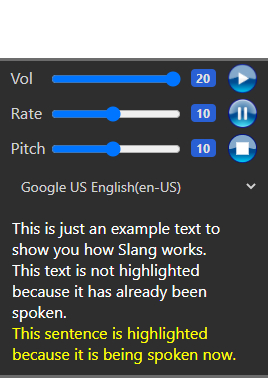
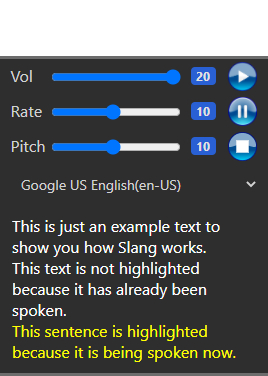
Fixed popup image in README.md

diff --git a/README.md b/README.md
@@ -17,7 +17,7 @@
 ---
 
 ## Description
-<img align="right" src="/images/readme/popup.jpg">
+<img align="right" src="/images/readme/popup.png">
 
   - #### Functionalities
     Slang reads out loud text from any website. It has a pop-up where it displays and updates the text while it's reading, and highlights the sentence being spoken synchronized with the speech, so that you can keep reading along regardless of the page you're on. Listening and reading simultaneously increases comprehension, strengthens memory, helps build fluency skills including proper phrasing and expression and improve sight word recognition!
